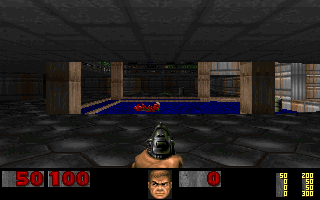
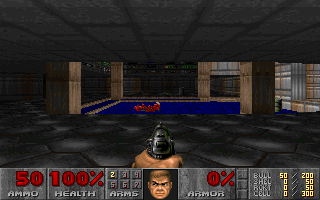
починил вайп: статус-бар больше не чёрный

Changed region(s): [[0.0, 0.84, 1.0, 1.0]]

diff --git a/doom/apply_port_patches.py b/doom/apply_port_patches.py
@@ -276,6 +276,40 @@ def fix_m_menu(t: str) -> str:
     return t
 
 
+def fix_f_wipe(t: str) -> str:
+    """Melt-вайп ванилы кастует экран в short* и делит ширину пополам,
+    обрабатывая по два пикселя за раз. В словной памяти ELVM
+    sizeof(short)==1, поэтому такой melt трогает ровно половину буфера и
+    до строк статус-бара (168..199) не доходит вообще. Фон бара DOOM
+    рисует один раз, ДО вайпа, и потом только виджеты, так что бар
+    оставался чёрным до конца прогона. Переписываем melt побайтово, пара
+    пикселей на столбец сохраняется, то есть и анимация, и итоговый кадр
+    совпадают с ванилой."""
+    t = t.replace("( short*\tarray,", "( byte*\tarray,")
+    t = t.replace("    short*\tdest;", "    byte*\tdest;")
+    t = t.replace("dest = (short*) Z_Malloc", "dest = (byte*) Z_Malloc")
+    t = t.replace(
+        "\t    dest[x*height+y] = array[y*width+x];",
+        "\t    { dest[(x*height+y)*2] = array[(y*width+x)*2];"
+        " dest[(x*height+y)*2+1] = array[(y*width+x)*2+1]; }")
+    t = t.replace("wipe_shittyColMajorXform((short*)wipe_scr_start,",
+                  "wipe_shittyColMajorXform(wipe_scr_start,")
+    t = t.replace("wipe_shittyColMajorXform((short*)wipe_scr_end,",
+                  "wipe_shittyColMajorXform(wipe_scr_end,")
+    t = t.replace("    short*\ts;", "    byte*\ts;")
+    t = t.replace("    short*\td;", "    byte*\td;")
+    t = t.replace("s = &((short *)wipe_scr_end)[i*height+y[i]];",
+                  "s = &wipe_scr_end[(i*height+y[i])*2];")
+    t = t.replace("s = &((short *)wipe_scr_start)[i*height];",
+                  "s = &wipe_scr_start[(i*height)*2];")
+    t = t.replace("d = &((short *)wipe_scr)[y[i]*width+i];",
+                  "d = &wipe_scr[(y[i]*width+i)*2];")
+    t = t.replace("\t\t    d[idx] = *(s++);",
+                  "\t\t    d[idx] = s[0]; d[idx+1] = s[1]; s += 2;")
+    t = t.replace("\t\t    idx += width;", "\t\t    idx += width*2;")
+    return t
+
+
 def fix_st_lib(t: str) -> str:
     # STTMINUS — единственный патч статус-бара мимо конвертера (аудит)
     t = sub_n(t,
@@ -562,6 +596,7 @@ def main() -> None:
     patch_file("p_spec.c", fix_p_spec)
     patch_file("r_bsp.c", fix_r_bsp)
     patch_file("st_lib.c", fix_st_lib)
+    patch_file("f_wipe.c", fix_f_wipe)
     patch_file("r_segs.c", fix_r_segs)
     patch_file("i_video.c", fix_i_video)
     print("готово")
